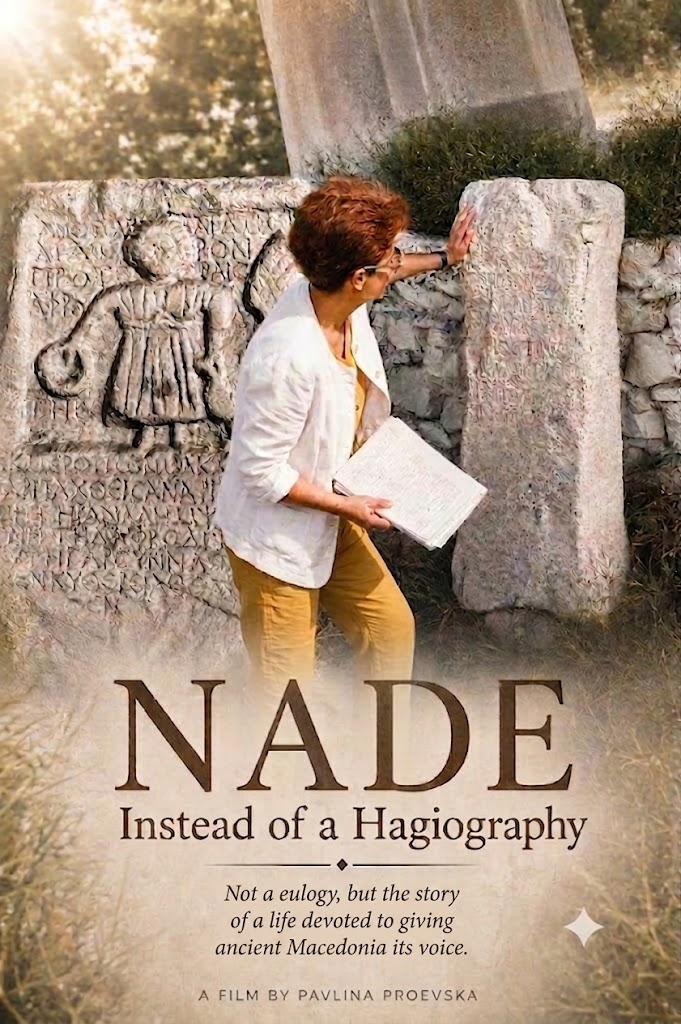
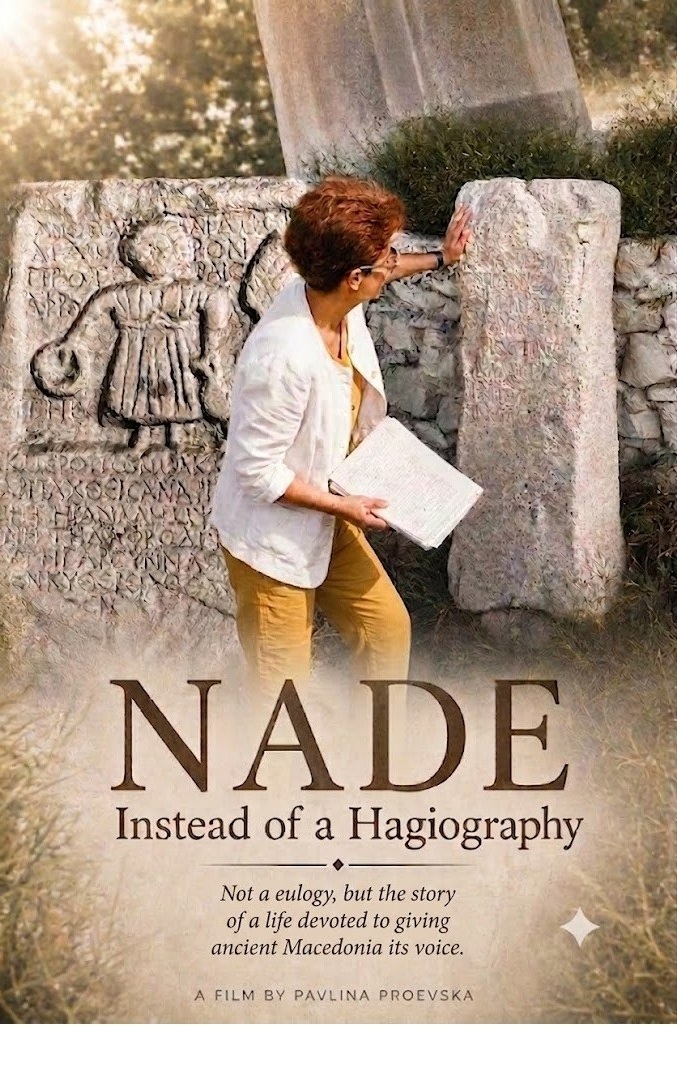
Film Poster + modal changes

diff --git a/src/components/FilmWithPoster.jsx b/src/components/FilmWithPoster.jsx
@@ -12,7 +12,7 @@ import {
     VideoPlayerFullscreenButton,
 } from "@/components/ui/shadcn-io/video-player";
 
-const MODAL_VIDEO_WIDTH = 850;
+const MODAL_VIDEO_WIDTH = 920;
 
 export function FilmWithPoster() {
     const [isOpen, setIsOpen] = useState(false);
@@ -36,12 +36,12 @@ export function FilmWithPoster() {
     return (
         <>
             {/* Thumbnail */}
+            <div className="flex flex-col mx-auto"></div>
             <div
                 onClick={() => setIsOpen(true)}
                 role="button"
                 tabIndex={0}
                 aria-label="Play film"
-                style={{ width: 380 }}
                 className="relative rounded-lg overflow-hidden cursor-pointer mx-auto"
             >
                 <VideoPlayer className="video-player pointer-events-none">
